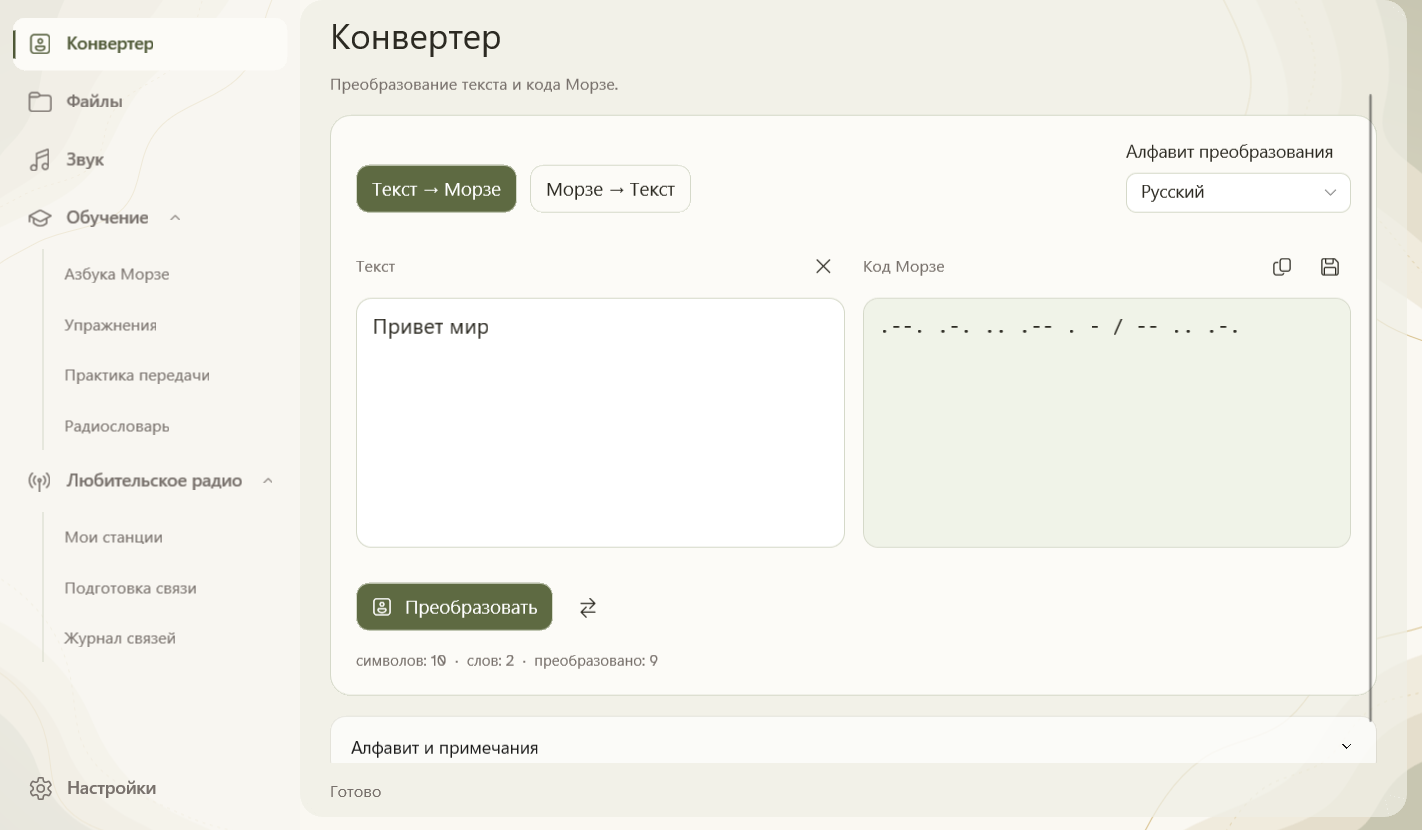
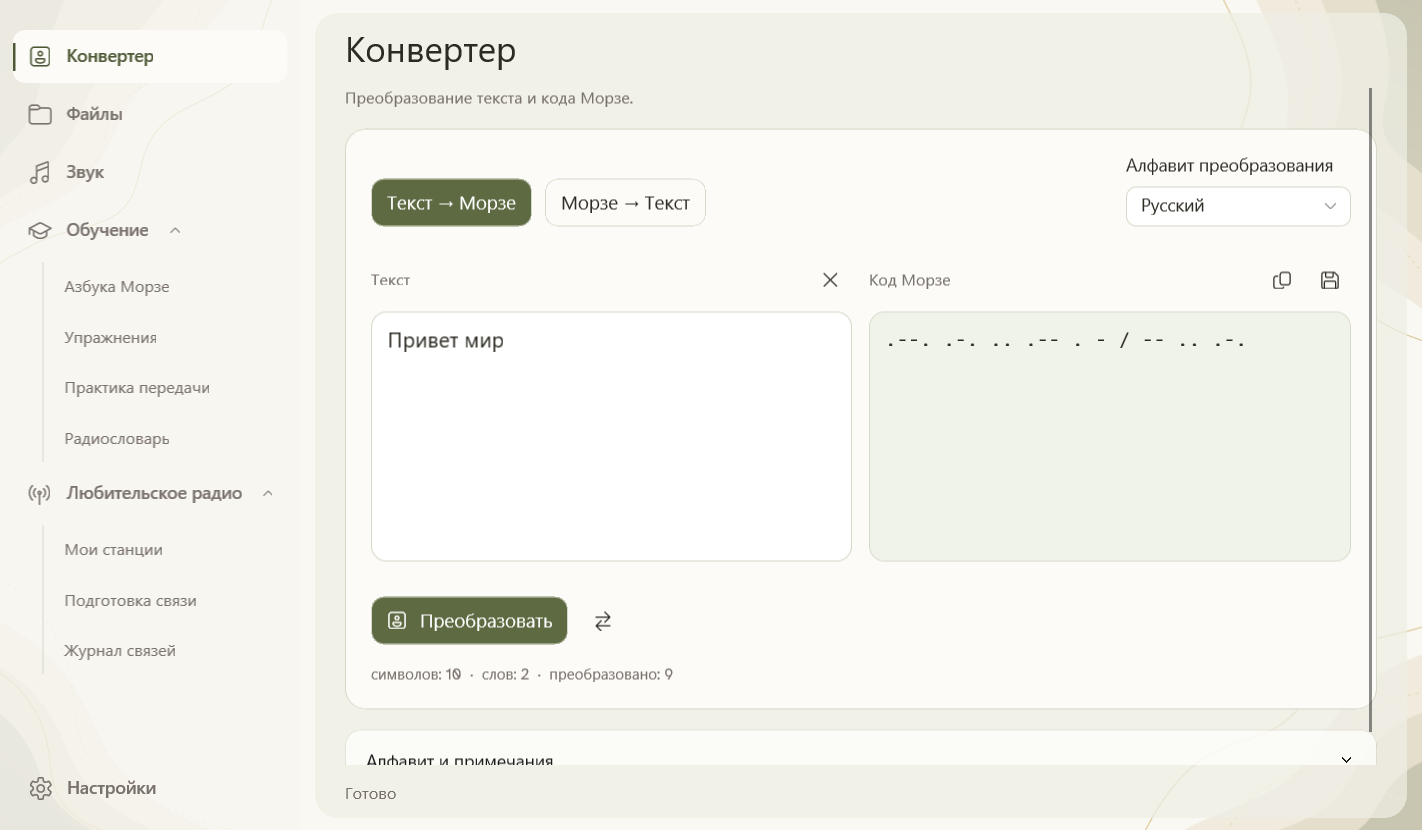
fix: separate workspace from header and sidebar in 0.7.3

diff --git a/apps/MorseCore.Desktop/MorseCore.Desktop/MainPage.xaml b/apps/MorseCore.Desktop/MorseCore.Desktop/MainPage.xaml
@@ -38,7 +38,7 @@
   <Grid x:Name="Shell" Grid.Row="1" Visibility="Collapsed">
    <Grid.ColumnDefinitions><ColumnDefinition Width="Auto"/><ColumnDefinition Width="*"/></Grid.ColumnDefinitions>
    <Border x:Name="Pane" Width="240" Background="{ThemeResource PaneSurfaceBrush}" BorderThickness="0">
-    <Grid Padding="10,14,10,12" RowSpacing="14">
+    <Grid Padding="10,24,10,12" RowSpacing="14">
      <Grid.RowDefinitions><RowDefinition Height="*"/><RowDefinition Height="Auto"/></Grid.RowDefinitions>
      <ScrollViewer HorizontalScrollBarVisibility="Disabled" VerticalScrollBarVisibility="Auto" HorizontalContentAlignment="Stretch">
       <StackPanel x:Name="Menu" Spacing="4"/>
@@ -48,7 +48,7 @@
      </StackPanel>
     </Grid>
    </Border>
-   <Border Grid.Column="1" Background="{ThemeResource WorkspaceSurfaceBrush}" CornerRadius="18" Margin="0,0,12,10">
+   <Border x:Name="WorkspaceFrame" Grid.Column="1" Background="{ThemeResource WorkspaceSurfaceBrush}" CornerRadius="18" Margin="12,10,12,10">
    <Grid x:Name="Workspace" Padding="24,14,24,12" RowSpacing="14">
     <Grid.RowDefinitions><RowDefinition Height="Auto"/><RowDefinition Height="*"/><RowDefinition Height="Auto"/></Grid.RowDefinitions>
     <TextBlock x:Name="Breadcrumb" FontSize="28" FontFamily="{StaticResource DisplayFont}" VerticalAlignment="Center"/>

diff --git a/apps/MorseCore.Desktop/MorseCore.Desktop/MainPage.Smoke.cs b/apps/MorseCore.Desktop/MorseCore.Desktop/MainPage.Smoke.cs
@@ -80,9 +80,20 @@ public sealed partial class MainPage
             var bounds=element.TransformToVisual(Pane).TransformBounds(new Windows.Foundation.Rect(0,0,element.ActualWidth,element.ActualHeight));
             return bounds.X+bounds.Width/2;
         }
+        void CheckWorkspaceGutters(string state)
+        {
+            Root.UpdateLayout();
+            Windows.Foundation.Rect Bounds(FrameworkElement element)=>element.TransformToVisual(Root).TransformBounds(new Windows.Foundation.Rect(0,0,element.ActualWidth,element.ActualHeight));
+            var frame=Bounds(WorkspaceFrame); var shell=Bounds(Shell); var pane=Bounds(Pane);
+            double sidebarGap=text.IsRtl ? pane.Left-frame.Right : frame.Left-pane.Right;
+            double outerGap=text.IsRtl ? frame.Left-shell.Left : shell.Right-frame.Right;
+            Check(frame.Top-shell.Top>=9 && shell.Bottom-frame.Bottom>=9 && sidebarGap>=11 && outerGap>=11,
+                $"Outer workspace stays separated from the title bar, sidebar and window edges in {state} (top {frame.Top-shell.Top:0.#}, bottom {shell.Bottom-frame.Bottom:0.#}, sidebar {sidebarGap:0.#}, outer {outerGap:0.#})");
+        }
         void CheckCollapsedAlignment(string language)
         {
             Root.UpdateLayout();
+            CheckWorkspaceGutters(language+" collapsed");
             double center=PaneCenter((FontIcon)((StackPanel)menuButtons[0].Content).Children[0]);
             Check(menuButtons.All(b=>Math.Abs(PaneCenter((FontIcon)((StackPanel)b.Content).Children[0])-center)<1),"Collapsed navigation and settings icons align in "+language);
             var toggle=PaneToggle.TransformToVisual(WindowBar).TransformBounds(new Windows.Foundation.Rect(0,0,PaneToggle.ActualWidth,PaneToggle.ActualHeight));
@@ -450,6 +461,7 @@ public sealed partial class MainPage
                 foreach(string feature in new[]{"converter","files","audio","practice","alphabet","keying","glossary","stationProfiles","qsoAssistant","qsoLog","settings"})
                 {
                     page=feature; Rebuild(); await Task.Delay(60); Root.UpdateLayout();
+                    if(feature=="converter") CheckWorkspaceGutters(language+" "+theme);
                     CheckPageWidth(language+" "+theme+" "+feature);
                     if(language=="tr") await Snapshot(Path.Combine(directory,"layout-"+theme+"-"+feature+".png"));
                 }

diff --git a/apps/MorseCore.AppCore/UpdateService.cs b/apps/MorseCore.AppCore/UpdateService.cs
@@ -16,7 +16,7 @@ public sealed class UpdateService(HttpClient client)
     public async Task<ReleaseUpdate?> CheckAsync(Version current, CancellationToken token=default)
     {
         using var request=new HttpRequestMessage(HttpMethod.Get,Endpoint);
-        request.Headers.UserAgent.ParseAdd("MorseCore/0.7.2");
+        request.Headers.UserAgent.ParseAdd("MorseCore/0.7.3");
         request.Headers.Accept.ParseAdd("application/vnd.github+json");
         request.Headers.Add("X-GitHub-Api-Version","2022-11-28");
         using var timeout=CancellationTokenSource.CreateLinkedTokenSource(token);

diff --git a/apps/MorseCore.Desktop/MorseCore.Desktop/MainPage.xaml.cs b/apps/MorseCore.Desktop/MorseCore.Desktop/MainPage.xaml.cs
@@ -23,7 +23,7 @@ public sealed partial class MainPage : Page
     private static readonly string[] RadioPages=["stationProfiles","qsoAssistant","qsoLog"];
     private bool educationExpanded,radioExpanded;
     private StackPanel? educationChildren,radioChildren;
-    private string page="converter", source="", version="0.7.2";
+    private string page="converter", source="", version="0.7.3";
     private ConversionResult? result;
     private bool decode, working, initialized, disposed, nativeReady;
     private int revision;

diff --git a/README.ru.md b/README.ru.md
@@ -4,8 +4,8 @@
 
 **Напиши сообщение. Послушай Морзе. Учись на практике.**
 
-[![Скачать Windows](https://img.shields.io/badge/%D0%A1%D0%BA%D0%B0%D1%87%D0%B0%D1%82%D1%8C-Windows-5e6a42?style=for-the-badge&logo=windows&logoColor=white)](https://github.com/mustafamertakceylan/MorseCore/releases/download/v0.7.2/MorseCore-0.7.2-Windows-x64-Setup.exe)
-[![0.7.2](https://img.shields.io/badge/v0.7.2-%D0%9F%D1%80%D0%B5%D0%B4%D0%B2%D0%B0%D1%80%D0%B8%D1%82%D0%B5%D0%BB%D1%8C%D0%BD%D0%B0%D1%8F%20%D0%B2%D0%B5%D1%80%D1%81%D0%B8%D1%8F-c58c59?style=for-the-badge)](https://github.com/mustafamertakceylan/MorseCore/releases/tag/v0.7.2)
+[![Скачать Windows](https://img.shields.io/badge/%D0%A1%D0%BA%D0%B0%D1%87%D0%B0%D1%82%D1%8C-Windows-5e6a42?style=for-the-badge&logo=windows&logoColor=white)](https://github.com/mustafamertakceylan/MorseCore/releases/download/v0.7.3/MorseCore-0.7.3-Windows-x64-Setup.exe)
+[![0.7.3](https://img.shields.io/badge/v0.7.3-%D0%9F%D1%80%D0%B5%D0%B4%D0%B2%D0%B0%D1%80%D0%B8%D1%82%D0%B5%D0%BB%D1%8C%D0%BD%D0%B0%D1%8F%20%D0%B2%D0%B5%D1%80%D1%81%D0%B8%D1%8F-c58c59?style=for-the-badge)](https://github.com/mustafamertakceylan/MorseCore/releases/tag/v0.7.3)
 
 [English](README.md) · [Türkçe](README.tr.md) · [Deutsch](README.de.md) · **Русский** · [العربية](README.ar.md)
 
@@ -21,7 +21,7 @@ MorseCore — бесплатное приложение для Windows: прео
 2. Введи сообщение в **Конвертере** и запусти преобразование. Для прослушивания открой **Звук**.
 3. В разделе **Обучение** находятся алфавит, упражнения и радиолюбительские сокращения.
 
-Без установки? Распакуй [переносной ZIP](https://github.com/mustafamertakceylan/MorseCore/releases/download/v0.7.2/MorseCore-0.7.2-Windows-x64-Desktop.zip) и открой **MorseCore.Desktop.exe**. Эта предварительная версия не подписана; Windows может показать предупреждение об издателе.
+Без установки? Распакуй [переносной ZIP](https://github.com/mustafamertakceylan/MorseCore/releases/download/v0.7.3/MorseCore-0.7.3-Windows-x64-Desktop.zip) и открой **MorseCore.Desktop.exe**. Эта предварительная версия не подписана; Windows может показать предупреждение об издателе.
 
 ### Что можно делать?
 

diff --git a/README.ar.md b/README.ar.md
@@ -6,8 +6,8 @@
 
 **اكتب رسالتك. استمع إلى مورس. تعلّم بالممارسة.**
 
-[![تنزيل Windows](https://img.shields.io/badge/%D8%AA%D9%86%D8%B2%D9%8A%D9%84-Windows-5e6a42?style=for-the-badge&logo=windows&logoColor=white)](https://github.com/mustafamertakceylan/MorseCore/releases/download/v0.7.2/MorseCore-0.7.2-Windows-x64-Setup.exe)
-[![0.7.2](https://img.shields.io/badge/v0.7.2-%D9%86%D8%B3%D8%AE%D8%A9%20%D8%AA%D8%AC%D8%B1%D9%8A%D8%A8%D9%8A%D8%A9-c58c59?style=for-the-badge)](https://github.com/mustafamertakceylan/MorseCore/releases/tag/v0.7.2)
+[![تنزيل Windows](https://img.shields.io/badge/%D8%AA%D9%86%D8%B2%D9%8A%D9%84-Windows-5e6a42?style=for-the-badge&logo=windows&logoColor=white)](https://github.com/mustafamertakceylan/MorseCore/releases/download/v0.7.3/MorseCore-0.7.3-Windows-x64-Setup.exe)
+[![0.7.3](https://img.shields.io/badge/v0.7.3-%D9%86%D8%B3%D8%AE%D8%A9%20%D8%AA%D8%AC%D8%B1%D9%8A%D8%A8%D9%8A%D8%A9-c58c59?style=for-the-badge)](https://github.com/mustafamertakceylan/MorseCore/releases/tag/v0.7.3)
 
 [English](README.md) · [Türkçe](README.tr.md) · [Deutsch](README.de.md) · [Русский](README.ru.md) · **العربية**
 
@@ -23,7 +23,7 @@ MorseCore تطبيق مجاني لويندوز لتحويل النص إلى شف
 2. اكتب رسالتك في **المحوّل** ثم حوّلها. افتح قسم **الصوت** للاستماع.
 3. افتح **التعلّم** للأبجدية والتمارين واختصارات هواة اللاسلكي.
 
-تفضّل الاستخدام دون تثبيت؟ فك ضغط [ملف ZIP المحمول](https://github.com/mustafamertakceylan/MorseCore/releases/download/v0.7.2/MorseCore-0.7.2-Windows-x64-Desktop.zip) وافتح **MorseCore.Desktop.exe**. هذه نسخة تجريبية غير موقّعة؛ قد يعرض ويندوز تحذيراً بشأن الناشر.
+تفضّل الاستخدام دون تثبيت؟ فك ضغط [ملف ZIP المحمول](https://github.com/mustafamertakceylan/MorseCore/releases/download/v0.7.3/MorseCore-0.7.3-Windows-x64-Desktop.zip) وافتح **MorseCore.Desktop.exe**. هذه نسخة تجريبية غير موقّعة؛ قد يعرض ويندوز تحذيراً بشأن الناشر.
 
 ### ماذا يمكنك أن تفعل؟
 

diff --git a/README.de.md b/README.de.md
@@ -4,8 +4,8 @@
 
 **Nachricht schreiben. Morse hören. Durch Üben lernen.**
 
-[![Herunterladen Windows](https://img.shields.io/badge/Herunterladen-Windows-5e6a42?style=for-the-badge&logo=windows&logoColor=white)](https://github.com/mustafamertakceylan/MorseCore/releases/download/v0.7.2/MorseCore-0.7.2-Windows-x64-Setup.exe)
-[![0.7.2](https://img.shields.io/badge/v0.7.2-Vorschau-c58c59?style=for-the-badge)](https://github.com/mustafamertakceylan/MorseCore/releases/tag/v0.7.2)
+[![Herunterladen Windows](https://img.shields.io/badge/Herunterladen-Windows-5e6a42?style=for-the-badge&logo=windows&logoColor=white)](https://github.com/mustafamertakceylan/MorseCore/releases/download/v0.7.3/MorseCore-0.7.3-Windows-x64-Setup.exe)
+[![0.7.3](https://img.shields.io/badge/v0.7.3-Vorschau-c58c59?style=for-the-badge)](https://github.com/mustafamertakceylan/MorseCore/releases/tag/v0.7.3)
 
 [English](README.md) · [Türkçe](README.tr.md) · **Deutsch** · [Русский](README.ru.md) · [العربية](README.ar.md)
 
@@ -21,7 +21,7 @@ MorseCore ist eine kostenlose Windows-App zum Umwandeln von Text in Morsecode, A
 2. Eine Nachricht unter **Konverter** eingeben und umwandeln. Zum Anhören **Audio** öffnen.
 3. Unter **Lernen** findest du das Alphabet, Übungen und Funkabkürzungen.
 
-Ohne Installation? Das [portable ZIP](https://github.com/mustafamertakceylan/MorseCore/releases/download/v0.7.2/MorseCore-0.7.2-Windows-x64-Desktop.zip) entpacken und **MorseCore.Desktop.exe** öffnen. Diese Vorschau ist nicht signiert; Windows kann eine Herausgeberwarnung anzeigen.
+Ohne Installation? Das [portable ZIP](https://github.com/mustafamertakceylan/MorseCore/releases/download/v0.7.3/MorseCore-0.7.3-Windows-x64-Desktop.zip) entpacken und **MorseCore.Desktop.exe** öffnen. Diese Vorschau ist nicht signiert; Windows kann eine Herausgeberwarnung anzeigen.
 
 ### Was kannst du tun?
 

diff --git a/README.md b/README.md
@@ -4,8 +4,8 @@
 
 **Write a message. Hear Morse. Learn by practicing.**
 
-[![Download Windows](https://img.shields.io/badge/Download-Windows-5e6a42?style=for-the-badge&logo=windows&logoColor=white)](https://github.com/mustafamertakceylan/MorseCore/releases/download/v0.7.2/MorseCore-0.7.2-Windows-x64-Setup.exe)
-[![0.7.2](https://img.shields.io/badge/v0.7.2-Preview-c58c59?style=for-the-badge)](https://github.com/mustafamertakceylan/MorseCore/releases/tag/v0.7.2)
+[![Download Windows](https://img.shields.io/badge/Download-Windows-5e6a42?style=for-the-badge&logo=windows&logoColor=white)](https://github.com/mustafamertakceylan/MorseCore/releases/download/v0.7.3/MorseCore-0.7.3-Windows-x64-Setup.exe)
+[![0.7.3](https://img.shields.io/badge/v0.7.3-Preview-c58c59?style=for-the-badge)](https://github.com/mustafamertakceylan/MorseCore/releases/tag/v0.7.3)
 
 **English** · [Türkçe](README.tr.md) · [Deutsch](README.de.md) · [Русский](README.ru.md) · [العربية](README.ar.md)
 
@@ -21,7 +21,7 @@ MorseCore is a free Windows app for converting text to Morse code, listening and
 2. Type a message in **Converter** and choose **Convert**. Use **Audio** to listen.
 3. Open **Learning** for the alphabet, exercises and radio abbreviations.
 
-Prefer no installation? Extract the [portable ZIP](https://github.com/mustafamertakceylan/MorseCore/releases/download/v0.7.2/MorseCore-0.7.2-Windows-x64-Desktop.zip) and open **MorseCore.Desktop.exe**. This preview is unsigned; Windows may show a publisher warning.
+Prefer no installation? Extract the [portable ZIP](https://github.com/mustafamertakceylan/MorseCore/releases/download/v0.7.3/MorseCore-0.7.3-Windows-x64-Desktop.zip) and open **MorseCore.Desktop.exe**. This preview is unsigned; Windows may show a publisher warning.
 
 ### What can you do?
 

diff --git a/docs/releases/v0.7.3.md b/docs/releases/v0.7.3.md
@@ -1,0 +1,19 @@
+# MorseCore v0.7.3
+
+## English
+
+- Fixed the outer workspace touching the title bar and sidebar. The workspace now has space on all four sides, with navigation and page headings kept aligned.
+- The same spacing applies to light/dark themes, expanded/collapsed navigation and Arabic's mirrored layout.
+
+Install or upgrade with **MorseCore-0.7.3-Windows-x64-Setup.exe**, or extract **MorseCore-0.7.3-Windows-x64-Desktop.zip**. Existing users can check for updates in Settings. Download checksums are in `SHA256SUMS`.
+
+## Türkçe
+
+- Dış çalışma panelinin üst çubuğa ve yan menüye yapışması düzeltildi. Panelin dört yanında boşluk bırakılırken menü ve sayfa başlıklarının hizası korundu.
+- Aynı boşluklar açık/koyu temada, dar/geniş menüde ve Arapçanın aynalanmış düzeninde uygulanır.
+
+Kurmak veya yükseltmek için **MorseCore-0.7.3-Windows-x64-Setup.exe** dosyasını çalıştır; taşınabilir seçenek **MorseCore-0.7.3-Windows-x64-Desktop.zip**. Ayarlar üzerinden güncelleme kontrol edilebilir. Dosya özetleri `SHA256SUMS` içindedir.
+
+Verification: 340 WinUI checks including measured outer-panel gaps in both themes and all five languages; 10 release CTest suites; both desktop targets; 54 installer checks including an actual 0.7.2 → 0.7.3 upgrade. / Doğrulama: İki tema ve beş dilde ölçülen dış panel boşlukları dahil 340 WinUI kontrolü; 10 Release CTest paketi; iki masaüstü hedefi; gerçek 0.7.2 → 0.7.3 yükseltmesi dahil 54 kurulum kontrolü.
+
+Unsigned Windows x64 preview. / İmzasız Windows x64 önizlemesi.

diff --git a/docs/media/README.md b/docs/media/README.md
@@ -1,6 +1,6 @@
 # README media
 
-- `converter.<language>.png`, `dark.<language>.png` and `map.<language>.png` are actual MorseCore v0.7.2 screenshots captured during release UI checks for `en`, `tr`, `de`, `ru` and `ar`. Navigation and sample conversion text match each README. They use isolated test messages and station records.
+- `converter.<language>.png`, `dark.<language>.png` and `map.<language>.png` are actual MorseCore v0.7.3 screenshots captured during release UI checks for `en`, `tr`, `de`, `ru` and `ar`. Navigation and sample conversion text match each README. They use isolated test messages and station records.
 - README captures omit the custom title bar to avoid native-caption readback artifacts; the application content pixels are unchanged. Map markers use supplied example locators, never callsign geolocation.
 - `morsecore.gif` is a decorative Morse signal animation, generated locally with `python scripts/generate-readme-banner.py`. It is not an application recording. Regenerating it requires Pillow; viewing the README does not.
 

diff --git a/CHANGELOG.md b/CHANGELOG.md
@@ -1,5 +1,10 @@
 # Changelog / Değişiklik günlüğü
 
+## 0.7.3 — 2026-10-16
+
+- Add the missing top and sidebar gutters around the outer workspace; keep navigation aligned with the page heading in both themes and Arabic layout.
+- Dış çalışma panelinin eksik üst ve yan menü boşlukları eklendi; iki temada ve Arapça düzende menü ile sayfa başlığı hizası korundu.
+
 ## 0.7.2 — 2026-10-16
 
 - Show a full-window loading screen without a title bar or reserved header space. Separate dark-mode workspace, cards, editors and result surfaces with stronger green tones and borders; preserve light-mode colors and spacing.
